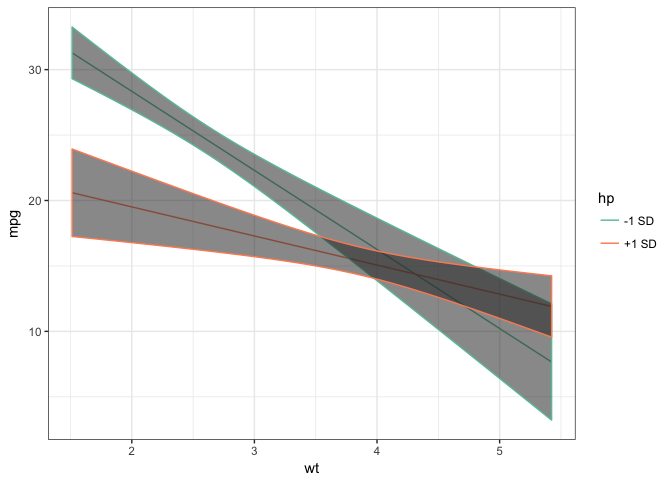
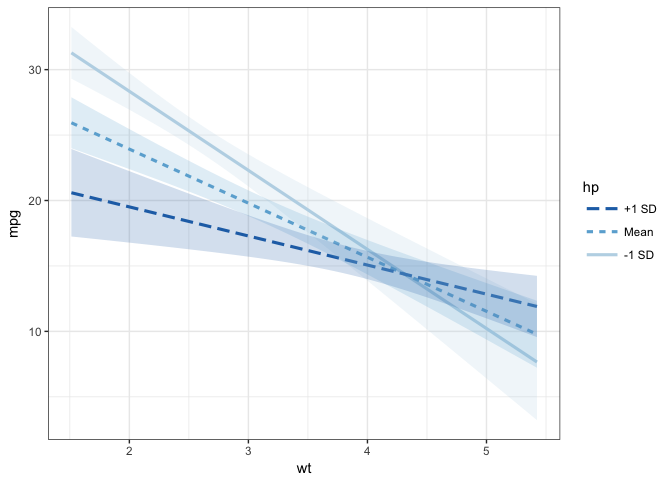
Update jtools

diff --git a/content/project/jtools.md b/content/project/jtools.md
@@ -42,8 +42,9 @@ weight=1
 
 This package (source, support [on Github](https://github.com/jacob-long/jtools)) consists of a series of functions I created to automate otherwise tedious research tasks. At this juncture, the unifying theme is the more efficient presentation of regression analyses, including those with interactions. Support for the `survey` package's `svyglm` objects is a common theme throughout.
 
-Installation
-------------
+**Note**: This is beta software. Bugs are possible, both in terms of code-breaking errors and more pernicious errors of mistaken computation.
+
+## Installation
 
 If you don't have `devtools` installed, first install it.
 
@@ -64,7 +65,7 @@ Here's a brief synopsis of the current functions in the package:
 
 ### `j_summ()`
 
-This is a replacement for `summary.lm` that provides the user several options for formatting regression summaries. Supports `glm` and `svyglm` objects as input as well, but it is not tested with nonlinear models. It supports calculation and reporting of robust standard errors via the `sandwich` and `lmtest` packages.
+This is a replacement for `summary.lm` that provides the user several options for formatting regression summaries. It supports `glm` and `svyglm` objects as input as well, but it is not tested with nonlinear models. It supports calculation and reporting of robust standard errors via the `sandwich` and `lmtest` packages.
 
 ``` r
 fit <- lm(mpg ~ hp*wt, data=mtcars)
@@ -72,10 +73,10 @@ j_summ(fit)
 ```
 
 <pre>
-#> MODEL INFO
+#> MODEL INFO:
 #> Sample Size: 32
 #> Dependent Variable: mpg
-#> Number of Predictors: 3
+#> Number of Terms: 3
 #> 
 #> MODEL FIT: 
 #> F(3,28) = 71.66, p = 0
@@ -90,13 +91,46 @@ j_summ(fit)
 #> hp:wt       0.028  0.007 3.753  0.001 ***
 </pre>
 
+It has some other conveniences as well, like re-fitting your model with standardized variables. I'm a fan of Andrew Gelman's 2 SD standardization method. You can also get a couple diagnostic checks for linear models along with multicollinearity information.
+
+``` r
+fit2 <- lm(Murder ~ Assault + UrbanPop, data = USArrests)
+j_summ(fit2, standardize = TRUE, n.sd = 2, vifs = TRUE, robust = TRUE,
+       model.check = TRUE)
+```
+
+<pre>
+#> MODEL INFO:
+#> Sample Size: 50
+#> Dependent Variable: Murder
+#> Number of Terms: 2
+#> 
+#> MODEL FIT: 
+#> F(2,47) = 46.319, p = 0
+#> R-squared = 0.663
+#> Adj. R-squared = 0.649
+#> 
+#> MODEL CHECKING:
+#> Homoskedasticity (Breusch-Pagan) = Assumption not violated (p = 0.144)
+#> Number of high-leverage observations = 5
+#> 
+#> Standard errors: Robust, type = HC3
+#>             Est.   S.E.  t val. p         VIF  
+#> (Intercept) 0      0.043 0      1              
+#> Assault     0.84   0.094 8.982  0     *** 1.072
+#> UrbanPop    -0.148 0.092 -1.608 0.115     1.072
+#> 
+#> All continuous variables are mean-centered and scaled by 2 s.d.
+</pre>
+
 ### `sim_slopes()`
 
-This is an interface for simple slopes analysis for 2-way interactions. User can specify values of the moderator to test or use the default +/- 1 SD values.
+This is an interface for simple slopes analysis for 2- and 3-way interactions. Users can specify values of the moderator to test or use the default +/- 1 SD values.
 
 ``` r
 sim_slopes(fit, pred="wt", modx = "hp")
 ```
+
 <pre>
 #> Slope of wt when hp = 215.25 (+1 SD): 
 #>   Est.   S.E.      p 
@@ -130,6 +164,67 @@ interact_plot(fitiris, pred = "Petal.Width", modx = "Species", plot.points = TRU
 
 ![](/img/README-interact_plot_factor-1.png)
 
+### `probe_interaction()`
+
+This function allows you to use the two above functions simultaneously, owing to their common syntax. Here is an example, which can also serve to show off how the 3-way interaction output looks.
+
+``` r
+fita3 <- lm(rating ~ privileges*critical*learning, data = attitude)
+probe_interaction(fita3, pred = critical, modx = learning, mod2 = privileges)
+```
+
+<pre>
+#> #######################################################
+#> While privileges (2nd moderator) = 65.36876 (+1 SD)
+#> #######################################################
+#> 
+#> Slope of critical when learning = 68.104 (+1 SD): 
+#>   Est.   S.E.      p 
+#> -1.063  0.658  0.120 
+#> 
+#> Slope of critical when learning = 56.367 (Mean): 
+#>   Est.   S.E.      p 
+#> -0.560  0.502  0.276 
+#> 
+#> Slope of critical when learning = 44.63 (-1 SD): 
+#>   Est.   S.E.      p 
+#> -0.057  0.614  0.927 
+#> 
+#> #######################################################
+#> While privileges (2nd moderator) = 53.13333 (Mean)
+#> #######################################################
+#> 
+#> Slope of critical when learning = 68.104 (+1 SD): 
+#>  Est.  S.E.     p 
+#> 0.023 0.330 0.946 
+#> 
+#> Slope of critical when learning = 56.367 (Mean): 
+#>  Est.  S.E.     p 
+#> 0.058 0.239 0.811 
+#> 
+#> Slope of critical when learning = 44.63 (-1 SD): 
+#>  Est.  S.E.     p 
+#> 0.093 0.340 0.788 
+#> 
+#> #######################################################
+#> While privileges (2nd moderator) = 40.8979 (-1 SD)
+#> #######################################################
+#> 
+#> Slope of critical when learning = 68.104 (+1 SD): 
+#>  Est.  S.E.     p 
+#> 1.109 0.553 0.057 
+#> 
+#> Slope of critical when learning = 56.367 (Mean): 
+#>  Est.  S.E.     p 
+#> 0.675 0.329 0.052 
+#> 
+#> Slope of critical when learning = 44.63 (-1 SD): 
+#>  Est.  S.E.     p 
+#> 0.242 0.237 0.318
+</pre>
+
+![](/img/README-probe_interaction_ex-1.png)
+
 ### `svycor()`
 
 This function extends the `survey` package by calculating correlations with complex survey designs, a feature absent from `survey`. Users may request significance tests, which are calculated via bootstrap by calling the `weights` package.
@@ -142,54 +237,51 @@ dstrat <- svydesign(id = ~1,strata = ~stype, weights = ~pw, data = apistrat, fpc
 svycor(~api00+api99+dnum, design = dstrat, digits = 3, sig.stats = T, bootn = 2000)
 ```
 
-
-<pre>#>       api00  api99  dnum  
+<pre>
+#>       api00  api99  dnum  
 #> api00 1      0.976* 0.254*
 #> api99 0.976* 1      0.244*
-#> dnum  0.254* 0.244* 1</pre>
-
+#> dnum  0.254* 0.244* 1
+</pre>
 
 ### `theme_apa()`
 
 This will format your `ggplot2` graphics to make them (mostly) appropriate for APA style publications. There's no drop-in, perfect way to get plots into APA format sight unseen, but this gets you close and returns a `ggplot` object that can be further tweaked to your specification.
 
-You might start with something like this:
+You might start with something like the above interaction plots and then use `theme_apa()` to tune it to APA specification. Note the `legend.pos` option:
 
 ``` r
-library(ggplot2)
-p <- ggplot(mpg, aes(displ, hwy)) + geom_point(aes(colour = factor(cyl)), position = "jitter")
-p
-```
-
-![](/img/README-theme_apa_pre_ex-1.png)
-
-And then use `theme_apa()` to tune it to APA specification. Note the `legend.pos` option:
-
-``` r
-p + theme_apa(legend.pos = "topright")
+p <- interact_plot(fitiris, pred = "Petal.Width", modx = "Species", plot.points = TRUE)
+p + theme_apa(legend.pos = "topleft")
 ```
 
 ![](/img/README-theme_apa_ex-1.png)
 
-You may need to make further changes to please your publisher. For instance, if color graphics are not an option, you may want to use point shapes (notice the `aes(shape = )`) as an additional way to signal variation along the factor.
+Facet grids like those produced by `interact_plot` for 3-way interactions are also supported, though APA guidance on these kinds of constructions is less than clear. The embedded legend has a nice space-saving quality, though some trial and error may be needed before finding the ideal `legend.pos` argument.
 
 ``` r
-p <- ggplot(mpg, aes(displ, hwy)) + geom_point(aes(shape = factor(cyl), 
-                                                   colour = factor(cyl)), 
-                                               position = "jitter")
-p + theme_apa(legend.pos = "topright") 
+p2 <- probe_interaction(fita3, pred = critical, modx = learning, mod2 = privileges)
+p2 <- p2$interactplot
+p2 + theme_apa(legend.pos = "topmiddle") 
 ```
 
-![](/img/README-theme_apa_shape_ex-1.png)
+![](/img/README-theme_apa_facet_ex-1.png)
+
+You may need to make further changes to please your publisher, of course. Since these are regular `ggplot` theme changes, it shouldn't be a problem.
+
+### Others
+
+`gscale()`, `center_lm()`, `scale_lm()`, and `svysd()` each do some of the behind the scenes computation in the above functions, but could do well for end users as well. See the documentation for more.
 
 Details on the arguments can be accessed via the R documentation (`?functionname`). There are now vignettes documenting just about everything you can do as well.
 
-Contributing
-------------
+## Contributing
+
 
 I'm happy to receive bug reports, suggestions, questions, and (most of all) contributions to fix problems and add features. I prefer you use the Github issues system over trying to reach out to me in other ways. Pull requests for contributions are encouraged.
 
-License
--------
+Please note that this project is released with a [Contributor Code of Conduct](CONDUCT.md). By participating in this project you agree to abide by its terms.
+
+## License
 
 The source code of this package is licensed under the [MIT License](http://opensource.org/licenses/mit-license.php).
